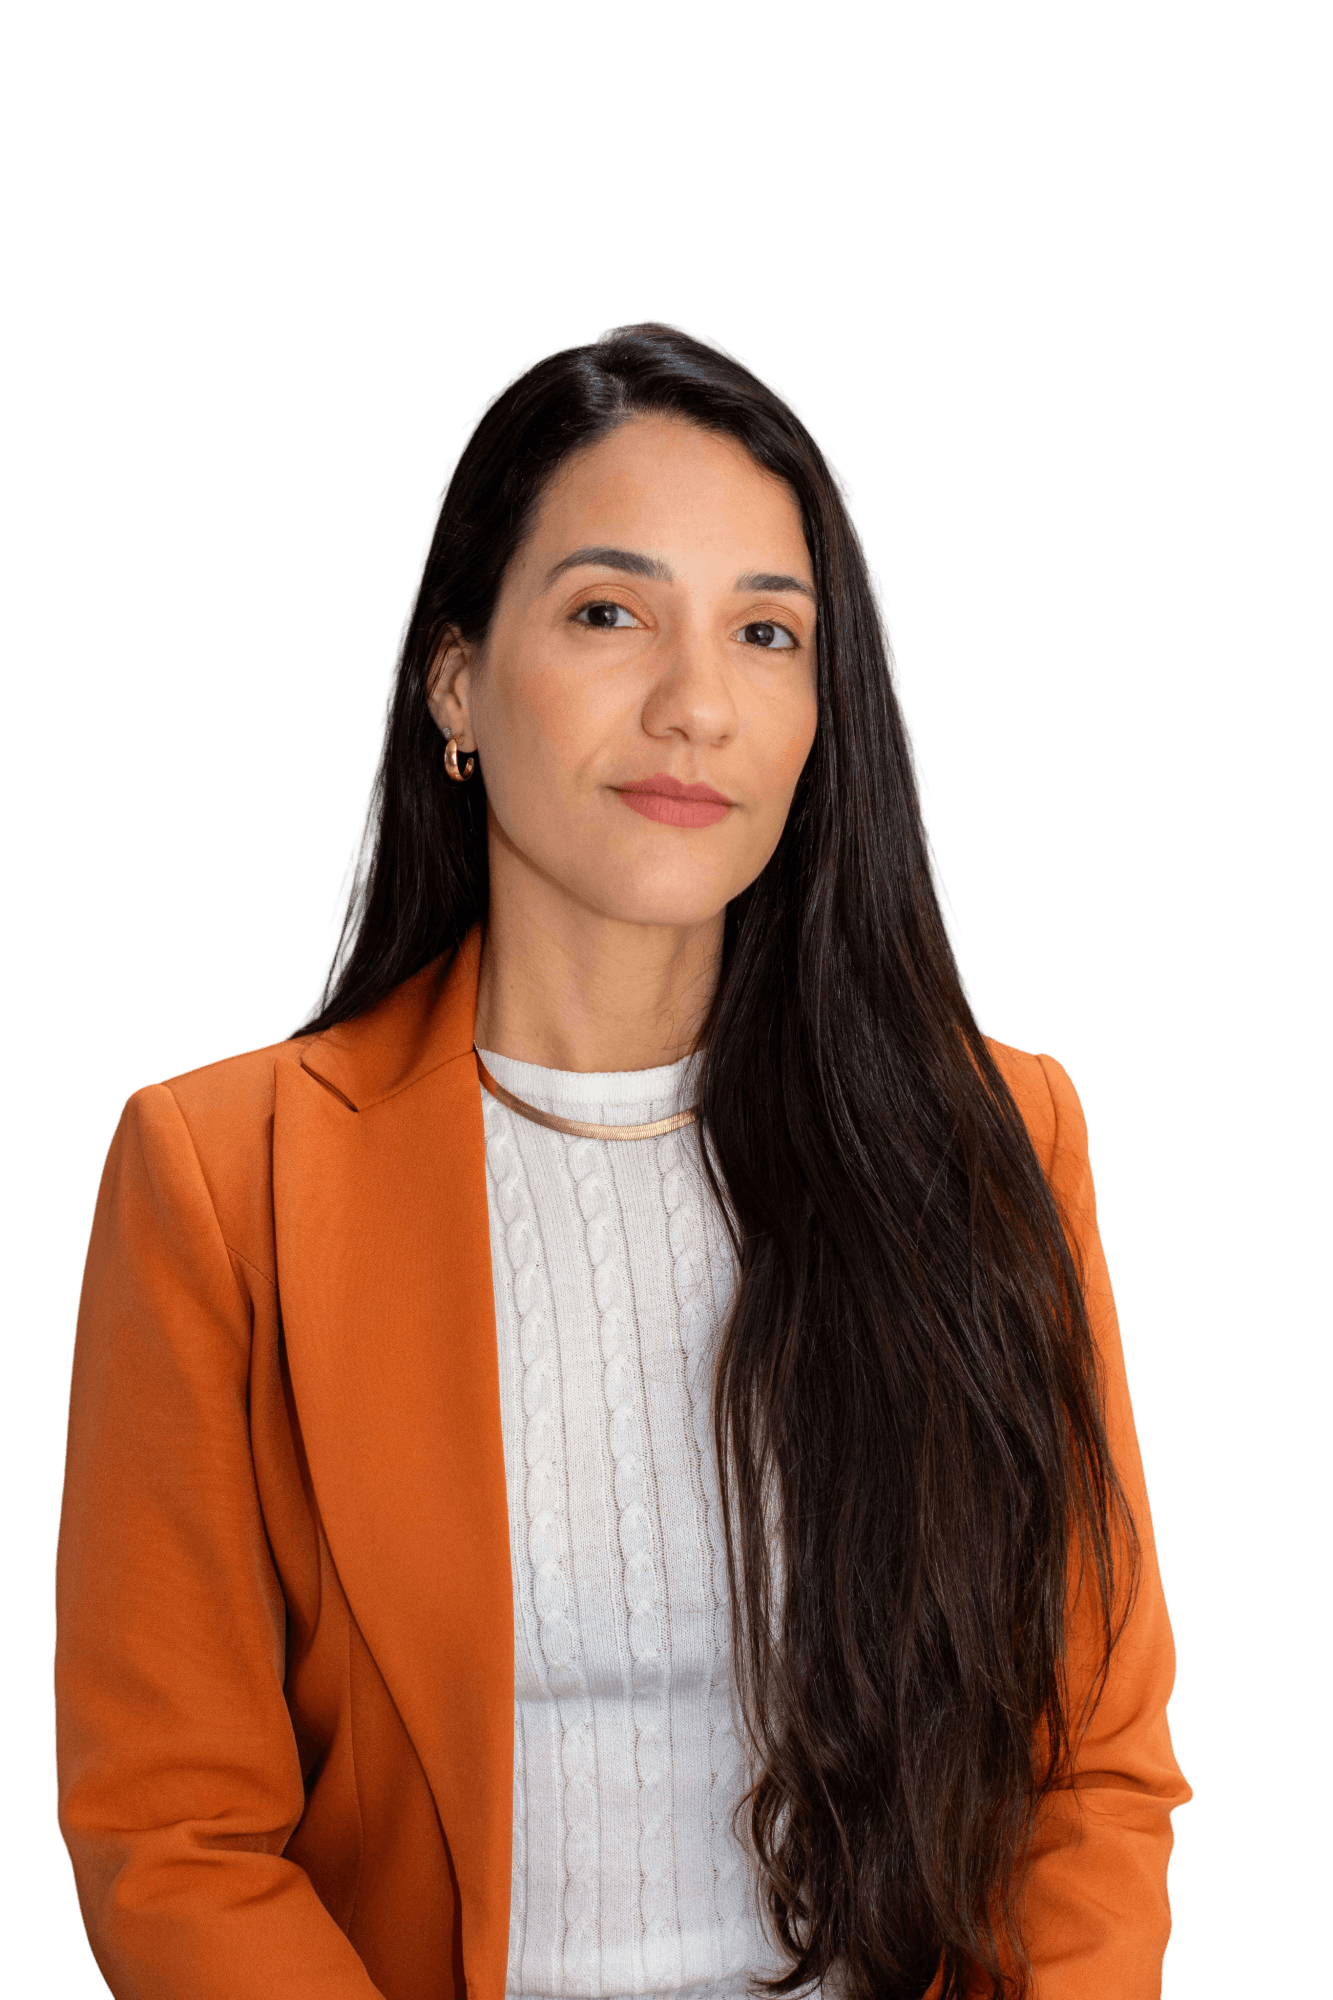
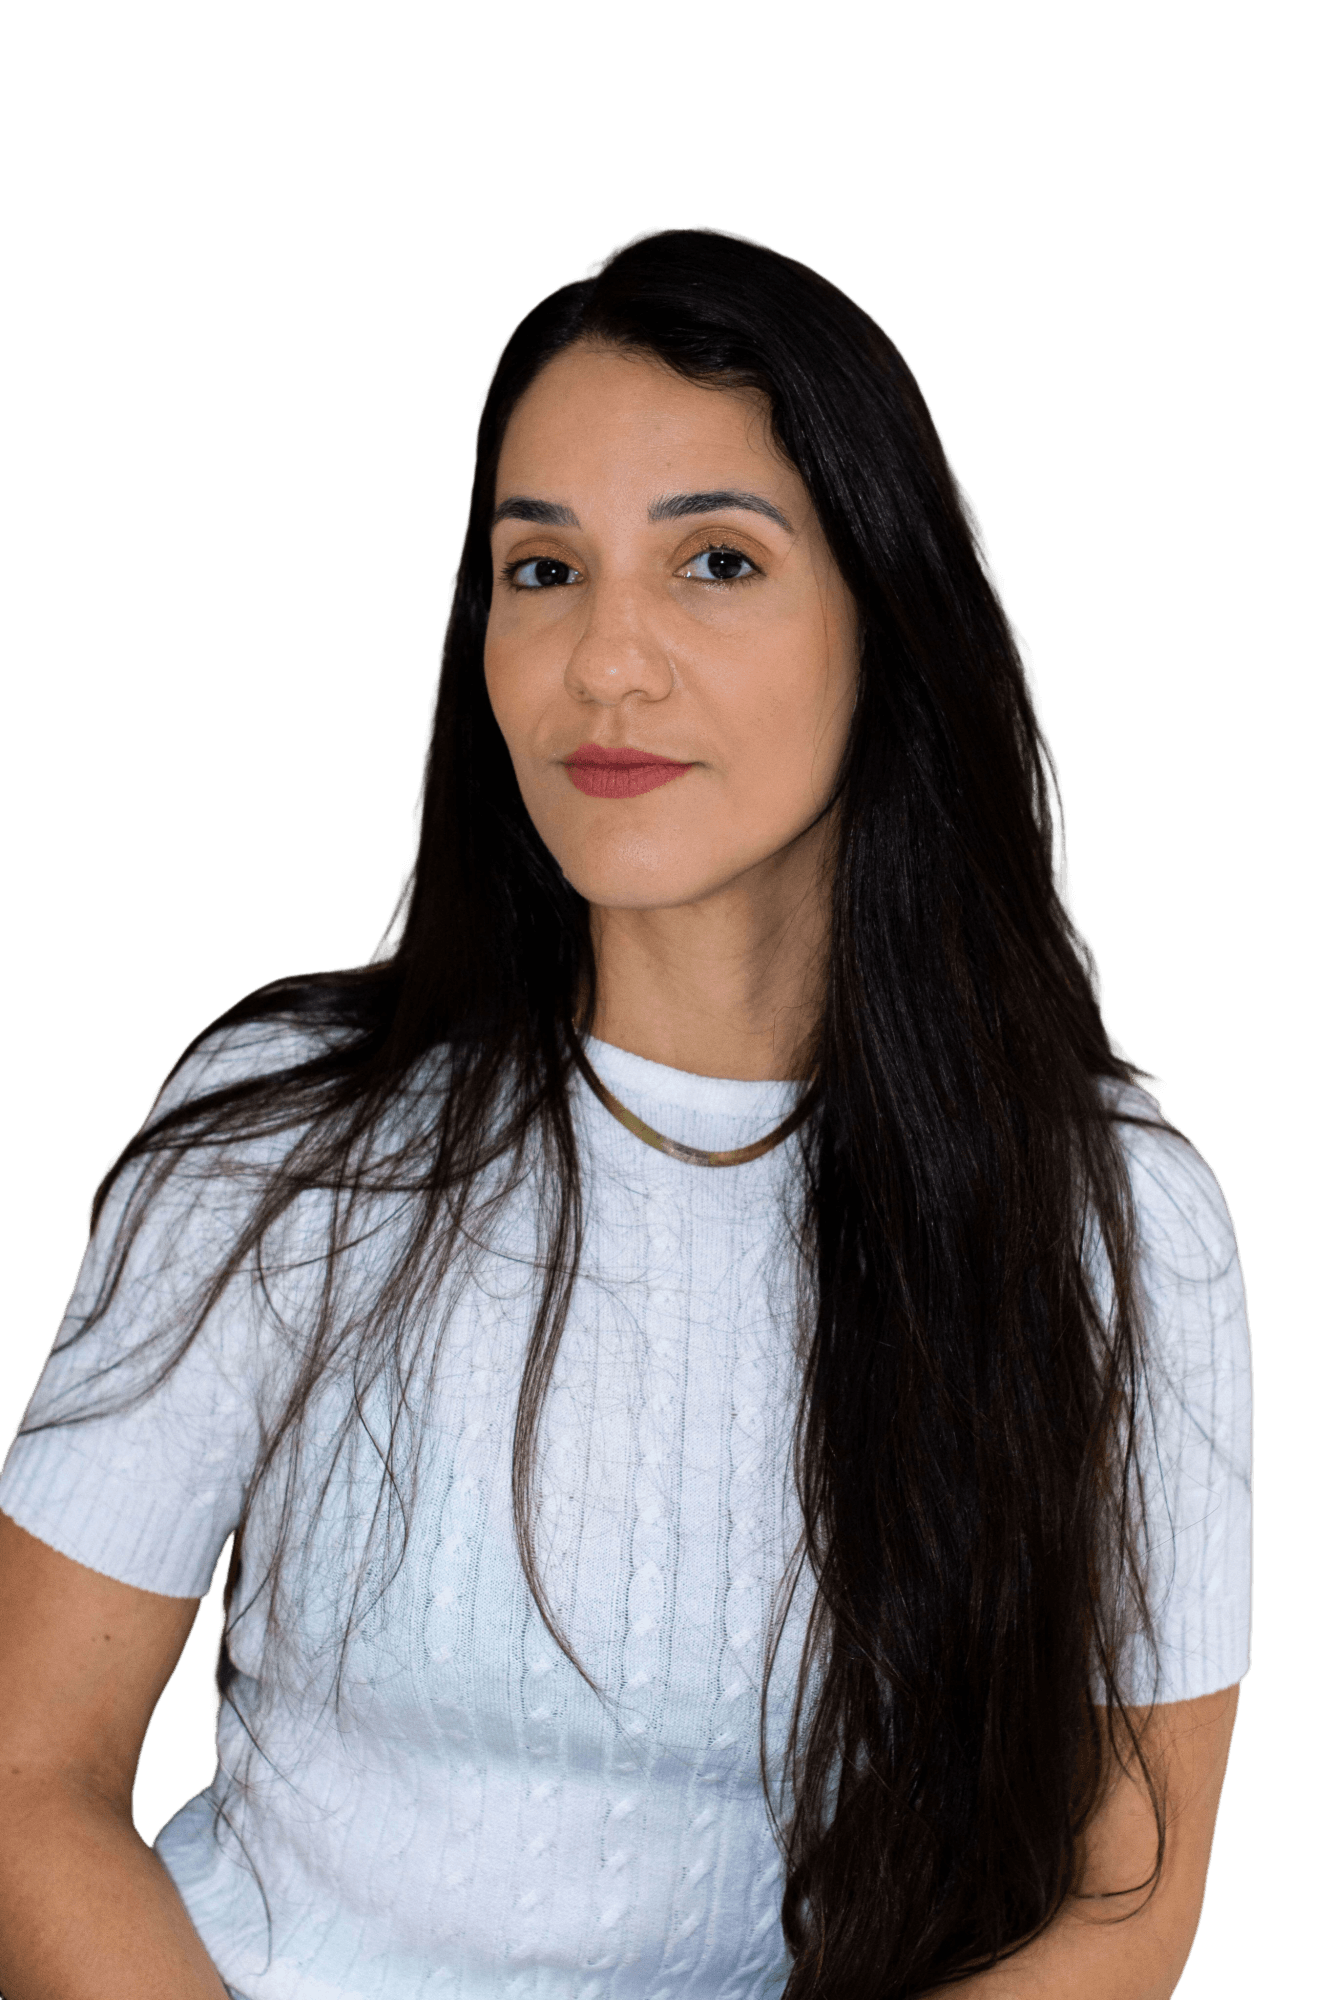
Ajusta imagens e camadas do portal

diff --git a/styles.css b/styles.css
@@ -60,7 +60,8 @@ a {
 
 .decor-frame {
   position: absolute;
-  inset: 142px 58px auto;
+  z-index: 0;
+  inset: 150px 58px auto;
   height: 980px;
   border: 2px solid var(--line);
   border-radius: 42px;
@@ -86,8 +87,8 @@ a {
 
 .hero-photo {
   position: absolute;
-  z-index: 0;
-  top: 145px;
+  z-index: 1;
+  top: 130px;
   left: 50%;
   width: min(88vw, 720px);
   height: 1080px;
@@ -112,22 +113,6 @@ a {
   height: 100%;
   object-fit: contain;
   object-position: center top;
-}
-
-.hero-photo-secondary {
-  top: 580px;
-  left: calc(50% + 242px);
-  width: min(38vw, 300px);
-  height: 500px;
-  opacity: 0.12;
-  filter: grayscale(0.08) saturate(0.72);
-}
-
-.hero-photo-secondary::after {
-  inset: -70px -44px -92px;
-  background:
-    linear-gradient(180deg, rgba(35, 29, 33, 0.18), rgba(35, 29, 33, 0.86) 100%),
-    radial-gradient(circle at 50% 44%, transparent 0%, rgba(35, 29, 33, 0.38) 64%, rgba(35, 29, 33, 0.90) 100%);
 }
 
 .identity-pill {
@@ -514,13 +499,13 @@ h1 {
   }
 
   .decor-frame {
-    inset: 132px 16px auto;
+    inset: 150px 16px auto;
     height: 770px;
     border-radius: 28px;
   }
 
   .hero-photo {
-    top: 145px;
+    top: 130px;
     left: 50%;
     width: min(100vw, 390px);
     height: 760px;
@@ -529,10 +514,6 @@ h1 {
 
   .hero-photo::after {
     inset: -80px 0 -160px;
-  }
-
-  .hero-photo-secondary {
-    display: none;
   }
 
   .identity-pill {

diff --git a/index.html b/index.html
@@ -23,7 +23,7 @@
       property="og:description"
       content="Atendimento terapêutico online com EFT para acolher ansiedade, bloqueios emocionais, culpa, insegurança e caminhos de amor-próprio."
     >
-    <meta property="og:image" content="assets/fotos/renata-freitas-fundo-transparente-camisa-branca.png">
+    <meta property="og:image" content="assets/fotos/renata-freitas-fundo-transparente.png">
     <meta property="og:image:alt" content="Renata Freitas, terapeuta EFT online">
     <meta name="twitter:card" content="summary_large_image">
     <meta name="twitter:title" content="Renata Freitas | EFT Online">
@@ -31,7 +31,7 @@
       name="twitter:description"
       content="Sessões online de EFT para ansiedade, bloqueios emocionais, autoestima e amor-próprio."
     >
-    <meta name="twitter:image" content="assets/fotos/renata-freitas-fundo-transparente-camisa-branca.png">
+    <meta name="twitter:image" content="assets/fotos/renata-freitas-fundo-transparente.png">
     <link rel="icon" href="assets/icon/favicon.ico" sizes="any">
     <link rel="icon" type="image/png" sizes="32x32" href="assets/icon/favicon-32x32.png">
     <link rel="icon" type="image/png" sizes="16x16" href="assets/icon/favicon-16x16.png">
@@ -86,9 +86,6 @@
       <div class="decor-frame" aria-hidden="true"></div>
       <div class="hero-photo" aria-hidden="true">
         <img src="assets/fotos/renata-freitas-fundo-transparente.png" alt="" width="1333" height="2000" decoding="async" fetchpriority="high">
-      </div>
-      <div class="hero-photo hero-photo-secondary" aria-hidden="true">
-        <img src="assets/fotos/renata-freitas-fundo-transparente-7.png" alt="" width="1333" height="2000" decoding="async">
       </div>
 
       <a
@@ -161,7 +158,7 @@
             <span>Uma técnica simples para apoiar o alívio emocional e a regulação do corpo.</span>
           </div>
           <span class="card-portrait" aria-hidden="true">
-            <img src="assets/fotos/renata-freitas-fundo-transparente-3.png" alt="" width="1333" height="2000" loading="lazy" decoding="async">
+            <img src="assets/fotos/renata-freitas-fundo-transparente-6.png" alt="" width="1333" height="2000" loading="lazy" decoding="async">
           </span>
           <span class="card-action">
             <span class="action-icon" aria-hidden="true">
@@ -184,7 +181,7 @@
             <span>Ressignifique crenças e fortaleça uma relação mais amorosa com você.</span>
           </div>
           <span class="card-portrait" aria-hidden="true">
-            <img src="assets/fotos/renata-freitas-fundo-transparente-4.png" alt="" width="1579" height="2000" loading="lazy" decoding="async">
+            <img src="assets/fotos/renata-freitas-fundo-transparente-5.png" alt="" width="1333" height="2000" loading="lazy" decoding="async">
           </span>
           <span class="card-action">
             <span class="action-icon" aria-hidden="true">
@@ -207,7 +204,7 @@
             <span>Conheça o tapping e veja como a EFT pode apoiar sua regulação emocional.</span>
           </div>
           <span class="card-portrait" aria-hidden="true">
-            <img src="assets/fotos/renata-freitas-fundo-transparente-camisa-branca.png" alt="" width="1333" height="2000" loading="lazy" decoding="async">
+            <img src="assets/fotos/renata-freitas-fundo-transparente-7.png" alt="" width="1333" height="2000" loading="lazy" decoding="async">
           </span>
           <span class="card-action">
             <span class="action-icon" aria-hidden="true">
@@ -230,7 +227,7 @@
             <span>Espaço para soltar o que pesa e se aproximar de si mesma.</span>
           </div>
           <span class="card-portrait" aria-hidden="true">
-            <img src="assets/fotos/renata-freitas-fundo-transparente-6.png" alt="" width="1333" height="2000" loading="lazy" decoding="async">
+            <img src="assets/fotos/renata-freitas-fundo-transparente-3.png" alt="" width="1333" height="2000" loading="lazy" decoding="async">
           </span>
           <span class="card-action instagram-action">
             <img